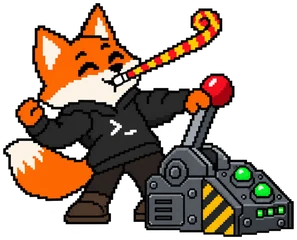
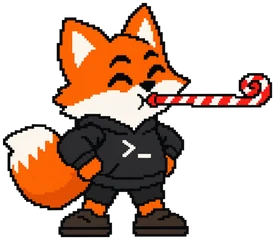
Use a simpler party pose for the completed checklist
The first pose included a lever machine and read as busy at 56 pixels.
The replacement shows Shippy alone with the party blower.

diff --git a/libs/client/shell/src/components/shippy.tsx b/libs/client/shell/src/components/shippy.tsx
@@ -49,7 +49,7 @@ const poses = {
     src: new URL('../../assets/shippy/cartridge.webp', import.meta.url).href,
   },
   party: {
-    width: 297,
+    width: 275,
     height: 240,
     src: new URL('../../assets/shippy/party.webp', import.meta.url).href,
   },
